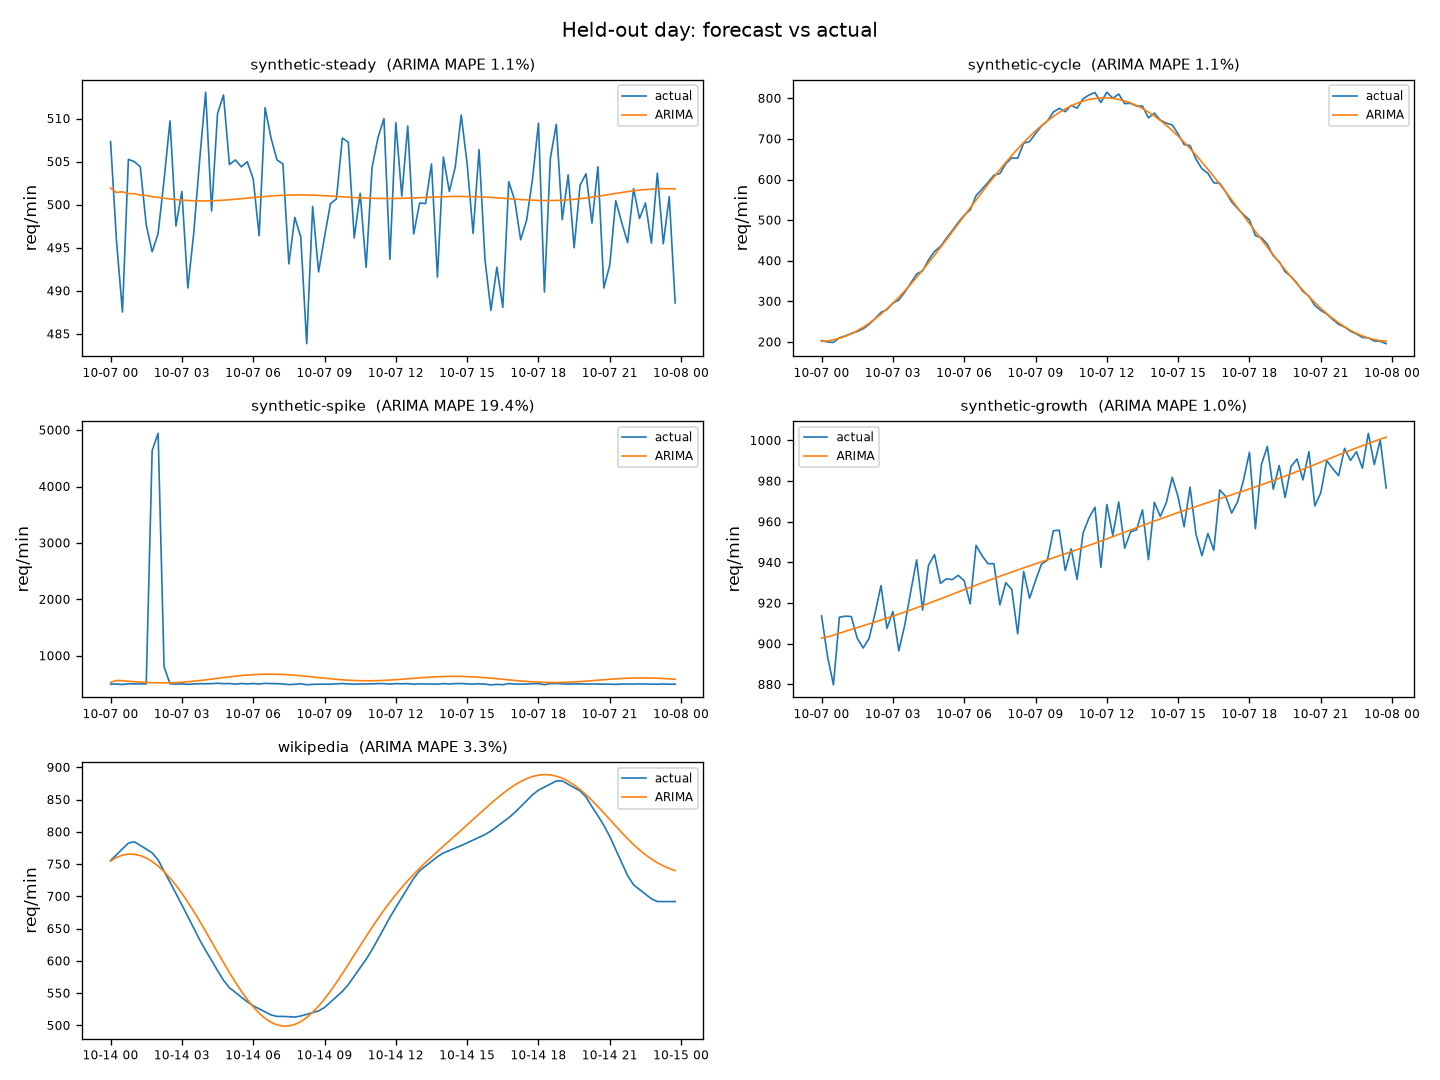
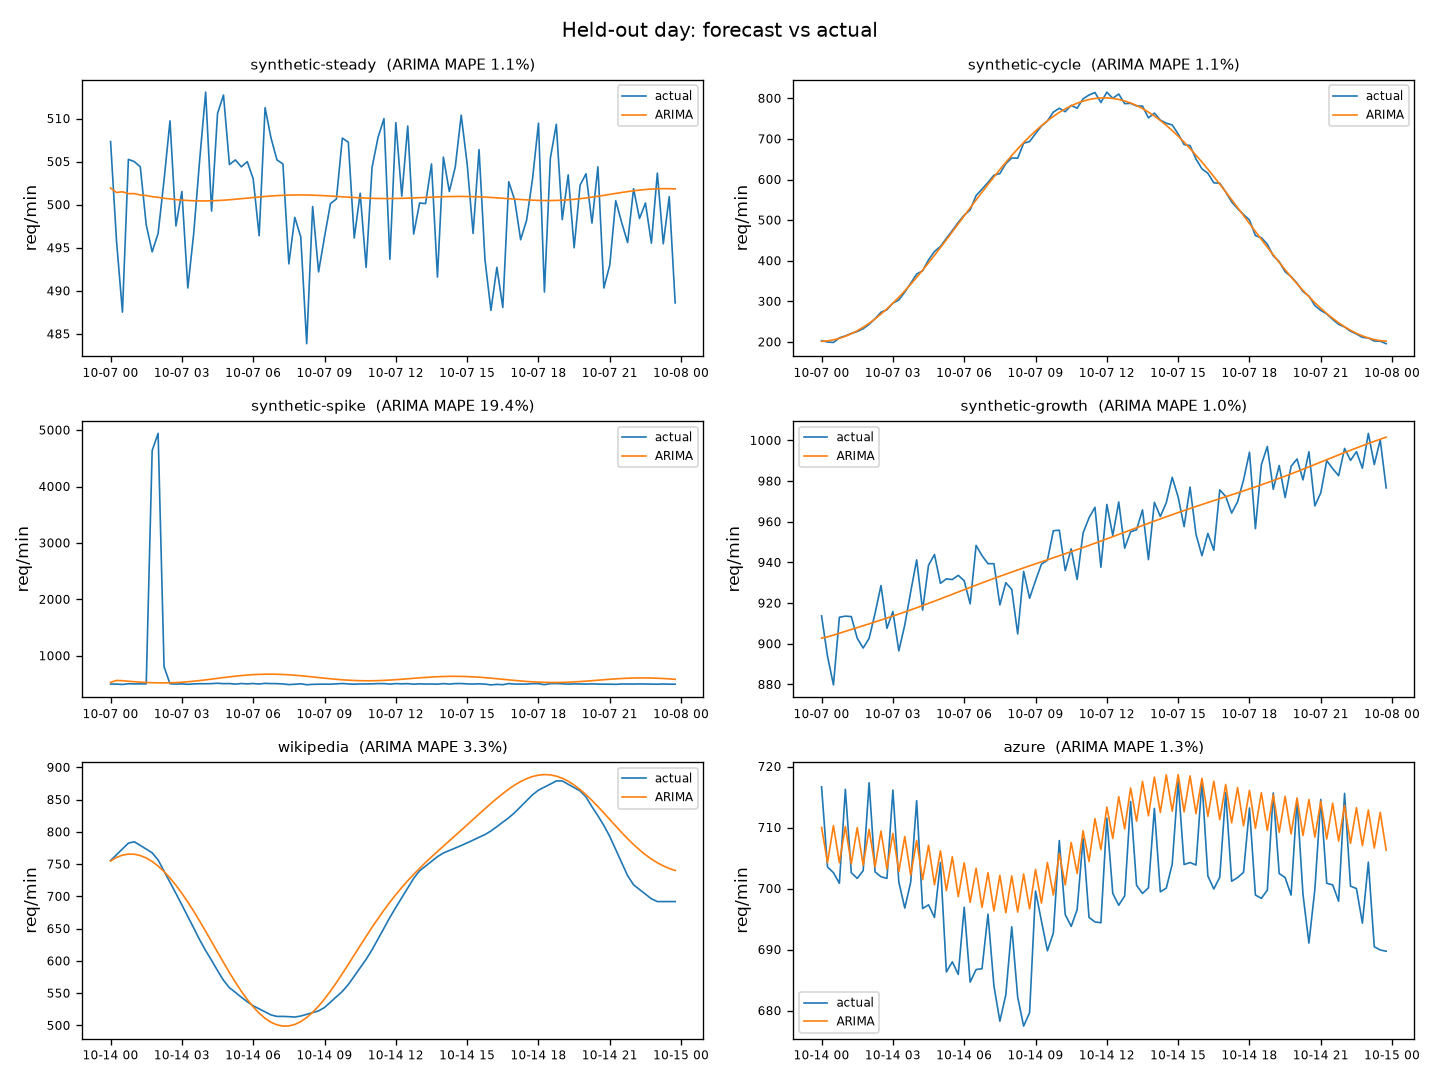
feat(forecasting): Azure Functions trace in the accuracy table; low-memory loader
- loaders.azure_functions reads the 14 ~135 MB day files in two passes (id
  columns, then one function's rows in chunks) instead of loading every day.
- accuracy.md / chart: azure row. The busiest HTTP function is near-flat
  (~700 rpm) with a 30-minute burst; same-time-yesterday (0.85% MAPE) beats
  ARIMA (1.32%), which runs ~7 rpm high.

Changed region(s): [[0.5312, 0.6722, 1.0, 0.9778], [0.5312, 0.8556, 0.5625, 0.8861], [0.5, 0.825, 0.5312, 0.8556]]

diff --git a/forecasting/loaders.py b/forecasting/loaders.py
@@ -57,18 +57,27 @@ def azure_functions(trace_dir, trigger="http", function=None, start="2026-10-01T
     if not files:
         raise FileNotFoundError(f"no invocations_per_function_md.anon.d*.csv in {trace_dir}")
     minute_cols = [str(m) for m in range(1, 1441)]
-    days = []
-    for f in files:
-        d = pd.read_csv(f)
-        d = d[d["Trigger"] == trigger] if function is None else d
-        days.append(d.set_index("HashFunction")[minute_cols])
     if function is None:
-        common = set(days[0].index).intersection(*(set(d.index) for d in days[1:]))
+        # pass 1, id columns only: `trigger` functions present on every day (each day file is ~135 MB)
+        common = None
+        for f in files:
+            ids = pd.read_csv(f, usecols=["HashFunction", "Trigger"])
+            found = set(ids.loc[ids["Trigger"] == trigger, "HashFunction"])
+            common = found if common is None else common & found
         if not common:
             raise ValueError(f"no {trigger!r} function present in all {len(files)} day files")
-        function = days[0].loc[list(common)].sum(axis=1).idxmax()
-    # duplicate hashes across owners are possible; sum them as one function
-    values = pd.concat([d.loc[[function]].sum(axis=0) for d in days]).to_numpy(dtype=float)
+        day1 = pd.read_csv(files[0])
+        day1 = day1[day1["HashFunction"].isin(common)]
+        function = day1.groupby("HashFunction")[minute_cols].sum().sum(axis=1).idxmax()
+    # pass 2: keep only that function's rows, a chunk at a time.
+    # Duplicate hashes across owners are possible; sum them as one function.
+    per_day = []
+    for f in files:
+        rows = pd.concat(c[c["HashFunction"] == function] for c in pd.read_csv(f, chunksize=10000))
+        if rows.empty:
+            raise ValueError(f"function {function!r} missing from {os.path.basename(f)}")
+        per_day.append(rows[minute_cols].sum(axis=0))
+    values = pd.concat(per_day).to_numpy(dtype=float)
     idx = pd.date_range(start, periods=len(values), freq="min")
     return c1_from_rpm(_scale(pd.Series(values, index=idx), peak_rpm), "azure-functions")
 

diff --git a/forecasting/results/accuracy.md b/forecasting/results/accuracy.md
@@ -18,3 +18,5 @@ predict them; ARIMA only widens its uncertainty band there.
 | synthetic-growth | same-time-yesterday | 100.4 | 101.7 | 10.56 |
 | wikipedia | arima | 22.7 | 28.0 | 3.28 |
 | wikipedia | same-time-yesterday | 32.1 | 32.7 | 4.68 |
+| azure | arima | 9.2 | 10.9 | 1.32 |
+| azure | same-time-yesterday | 5.9 | 7.3 | 0.85 |
